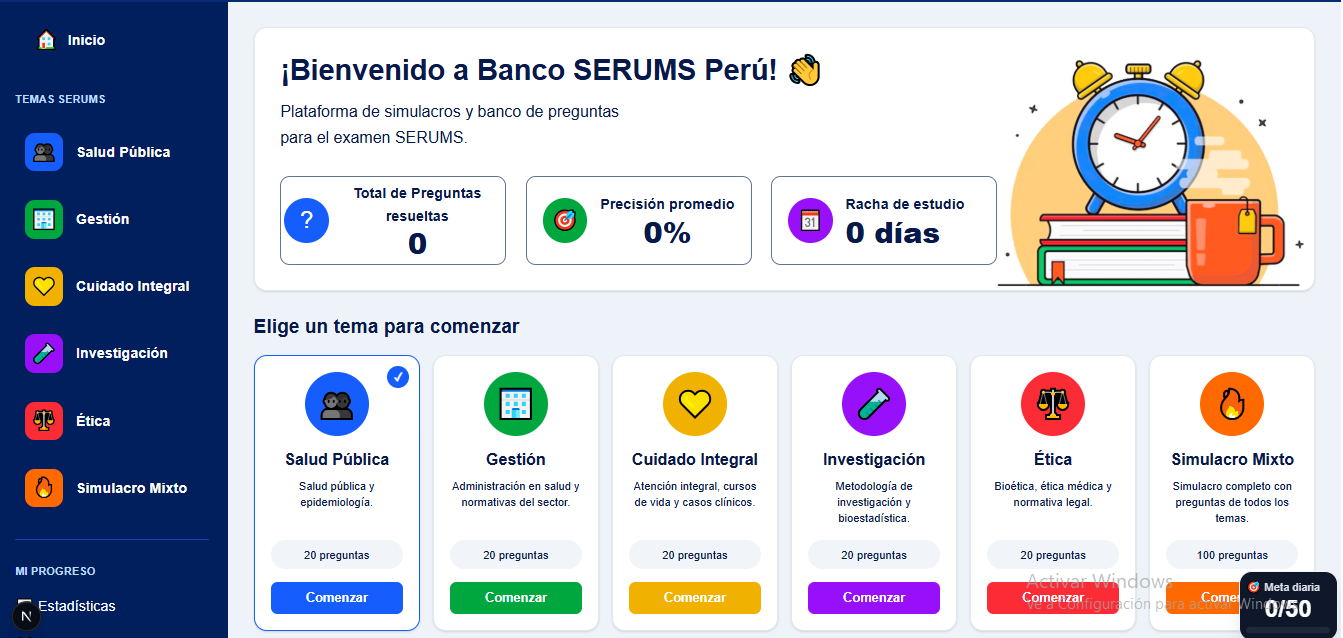
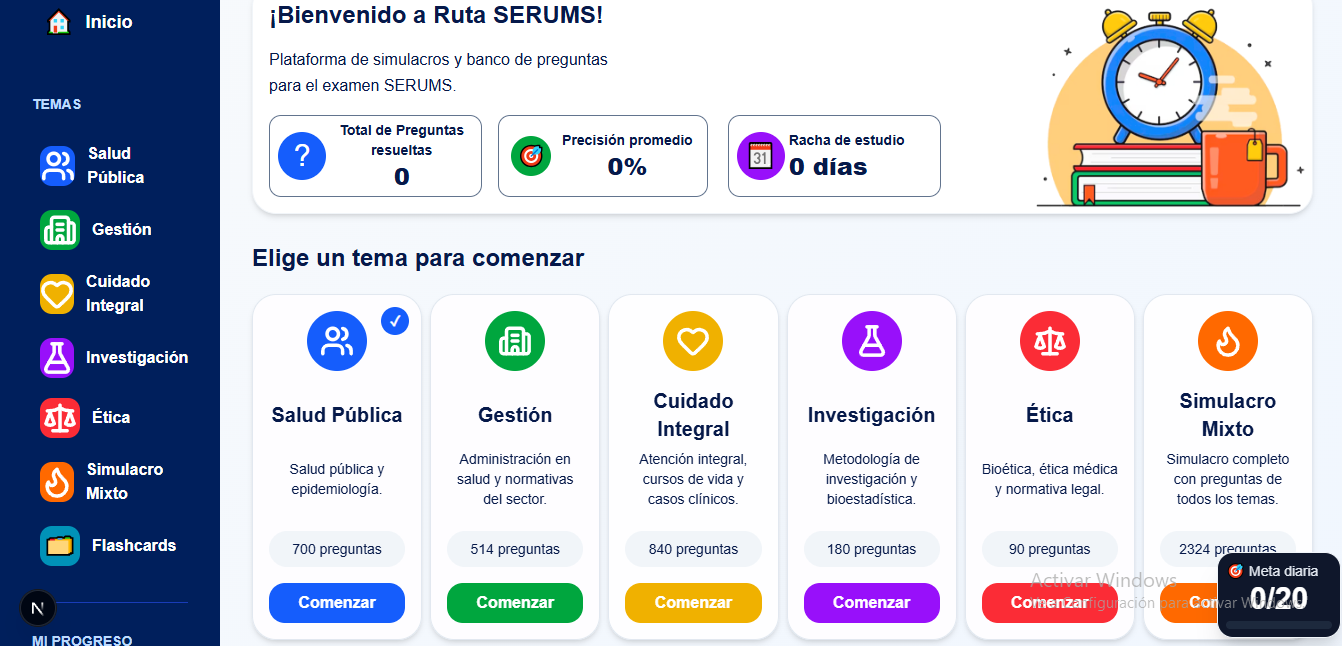
Login responsive mobile terminado

diff --git a/app/login/page.tsx b/app/login/page.tsx
@@ -10,6 +10,10 @@ export default function LoginPage() {
   const [correo, setCorreo] = useState("");
   const [password, setPassword] = useState("");
 
+  const [mostrarRegistro, setMostrarRegistro] = useState(false);
+  const [nombreRegistro, setNombreRegistro] = useState("");
+  const [correoRegistro, setCorreoRegistro] = useState("");
+  const [passwordRegistro, setPasswordRegistro] = useState("");
   const ingresar = () => {
     if (!correo || !password) {
       alert("Completa tu correo y contraseña");
@@ -28,20 +32,20 @@ export default function LoginPage() {
   };
 
   return (
-    <main className="min-h-screen bg-[#020817] text-white overflow-hidden relative">
+    <main className="min-h-screen bg-[#020817] text-white overflow-x-hidden relative px-4 py-6">
   
       {/* GLOW FONDO */}
       <div className="absolute inset-0 bg-[radial-gradient(circle_at_top_left,#0f3fff22,transparent_35%)]"></div>
   
       {/* LOGO */}
-      <div className="absolute top-10 left-12 z-20">
+      <div className="relative -left-23 md:absolute md:top-10 md:left-12 z-20 text-center md:text-left">
         <h1 className="text-xl font-extrabold">
-        Banco <span className="text-blue-500">SERUMS</span> Perú
+        Ruta <span className="text-blue-500">SERUMS</span> 
         </h1>
       </div>
   
       {/* TEXTO IZQUIERDA */}
-      <div className="absolute top-22 left-12 z-20">
+      <div className="relative md:absolute md:top-22 md:left-12 z-20 mb-6">
   
         <h2 className="text-4xl font-extrabold leading-[1.05]">
           Prepárate.
@@ -60,12 +64,34 @@ export default function LoginPage() {
           <br />
           falladas en una sola plataforma.
         </p>
+        <div className="hidden md:flex items-center gap-3 mt-2 mr-10">
+  
+
+  <div>
+    <p className="text-4xl font-extrabold text-blue-500">
+      +2300
+    </p>
+
+    <p className="text-white-400">
+      preguntas tipo SERUMS
+    </p>
+  </div>
+</div>
+<div className="md:hidden absolute top-[50px] right-2 text-right z-20">
+  <p className="text-4xl font-extrabold text-blue-500">
+    +2300
+  </p>
+
+  <p className="text-base text-slate-300">
+    preguntas
+  </p>
+</div>
   
       </div>
   
       {/* DASHBOARD */}
       <div
-  className="absolute top-10 left-[300px]"
+  className="relative md:absolute md:top-10 md:left-[300px] mt-8 md:mt-0 z-10"
   style={{
     transform: "perspective(1000px) rotateY(12deg) rotateX(3deg)",
   }}
@@ -78,14 +104,14 @@ export default function LoginPage() {
         <img
           src="/dashboard.png"
           alt="dashboard"
-          className="w-[670px] rounded-[32px] border border-blue-500/20 shadow-[0_0_35px_#2563eb44] drop-shadow-[0_0_8px_rgba(37,99,235,0.35)]transition duration-500 hover:scale-105"
+          className="w-full md:w-[670px] rounded-[24px] md:rounded-[32px] border border-blue-500/20 shadow-[0_0_35px_#2563eb44]"
         />
   
       </div>
   
       {/* ESTADISTICAS */}
       <div
-  className="absolute top-92 left-[200px]"
+  className="hidden md:block absolute top-92 left-[200px]"
   style={{
     transform: "perspective(2000px) rotateY(30deg) rotateX(4deg)",
   }}
@@ -101,7 +127,7 @@ export default function LoginPage() {
   
       {/* REFORZAMIENTO */}
       <div
-  className="absolute top-90 left-[470px]"
+  className="hidden md:block absolute top-90 left-[470px]"
   style={{
     transform: "perspective(2000px) rotateY(-20deg) rotateX(4deg)",
   }}
@@ -116,9 +142,9 @@ export default function LoginPage() {
       </div>
   
       {/* LOGIN */}
-      <div className="absolute top-8 right-10 w-[350px] rounded-[40px] border border-blue-500/40 bg-[#081120]/95 backdrop-blur-xl p-10 shadow-[0_0_80px_#2563eb44]">
+      <div className="relative md:absolute md:top-20 md:right-12 z-30 w-full max-w-[330px] mx-auto mt-8 md:-mt-15 border border-white/50 rounded-4xl p-6 backdrop-blur-sm">
   
-        <div className="w-20 h-20 rounded-full border border-blue-500/40 flex items-center justify-center text-5xl mx-auto mb-8 text-blue-500">
+        <div className="w-20 h-20 rounded-full border border-blue-500/40 flex items-center justify-center text-5xl mx-auto mb-4 text-blue-500">
           👤
         </div>
   
@@ -150,12 +176,21 @@ export default function LoginPage() {
             className="w-full h-15 rounded-2xl bg-[#111c31] border border-slate-700 px-6 text-2x1 outline-none"
           />
   
-          <button
-            onClick={ingresar}
-            className="w-full h-13 rounded-2xl bg-blue-600 hover:bg-blue-700 text-xl font-bold transition"
-          >
-            Ingresar / Registrarme
-          </button>
+  <div className="flex gap-3">
+  <button
+    onClick={() => setMostrarRegistro(true)}
+    className="flex-1 h-13 rounded-2xl bg-blue-600 hover:bg-blue-700 text-xl font-bold transition"
+  >
+    Ingresar
+  </button>
+
+  <button
+   onClick={() => setMostrarRegistro(true)}
+    className="flex-1 h-13 rounded-2xl bg-slate-700 hover:bg-slate-600 text-xl font-bold transition"
+  >
+    Registrarme
+  </button>
+</div>
   
         </div>
   
@@ -165,10 +200,10 @@ export default function LoginPage() {
 </div>
   
       {/* CARDS ABAJO */}
-<div className="absolute bottom-3 p-2 h-24 left-10 flex gap-4">
+      <div className="relative md:absolute md:bottom-3 md:left-10 mt-8 grid grid-cols-2 md:flex gap-4 pb-8">
 
 {/* CARD 1 */}
-<div className="bg-[#081120]/90 border border-slate-800 rounded-3xl px-2 py-4 w-[290px] flex items-center gap-4">
+<div className="bg-[#081120]/90 border border-slate-800 rounded-3xl px-3 py-4 w-full md:w-[290px] flex flex-col md:flex-row items-center text-center md:text-left gap-3 md:gap-4">
 
   <div className="text-2xl">
     🎓
@@ -189,7 +224,7 @@ export default function LoginPage() {
 </div>
 
 {/* CARD 2 */}
-<div className="bg-[#081120]/90 border border-slate-800 rounded-3xl px-2 py-2 w-[290px] flex items-center gap-4">
+<div className="bg-[#081120]/90 border border-slate-800 rounded-3xl px-3 py-4 w-full md:w-[290px] flex flex-col md:flex-row items-center text-center md:text-left gap-3 md:gap-4">
 
   <div className="text-2xl">
     📊
@@ -210,7 +245,7 @@ export default function LoginPage() {
 </div>
 
 {/* CARD 3 */}
-<div className="bg-[#081120]/90 border border-slate-800 rounded-3xl px-2 py-4 w-[290px] flex items-center gap-4">
+<div className="bg-[#081120]/90 border border-slate-800 rounded-3xl px-3 py-4 w-full md:w-[290px] flex flex-col md:flex-row items-center text-center md:text-left gap-3 md:gap-4">
 
   <div className="text-2xl">
     🧠
@@ -231,7 +266,7 @@ export default function LoginPage() {
 </div>
 
 {/* CARD 4 */}
-<div className="bg-[#081120]/90 border border-slate-800 rounded-3xl px-2 py-4 w-[290px] flex items-center gap-4">
+<div className="bg-[#081120]/90 border border-slate-800 rounded-3xl px-3 py-4 w-full md:w-[290px] flex flex-col md:flex-row items-center text-center md:text-left gap-3 md:gap-4">
 
   <div className="text-2xl">
     ❌
@@ -252,7 +287,66 @@ export default function LoginPage() {
 </div>
 
 </div>
-  
+{mostrarRegistro && (
+  <div className="fixed inset-0 bg-black/60 flex items-center justify-center z-50">
+    <div className="bg-[#081120] border border-blue-500/30 rounded-3xl p-8 w-full max-w-md text-white shadow-2xl">
+      <h2 className="text-3xl font-bold mb-6 text-center">
+        Crear cuenta
+      </h2>
+
+      <div className="space-y-4">
+        <input
+          type="text"
+          placeholder="Nombre completo"
+          value={nombreRegistro}
+          onChange={(e) => setNombreRegistro(e.target.value)}
+          className="w-full bg-slate-900 border border-slate-700 rounded-xl px-4 py-3 outline-none"
+        />
+
+        <input
+          type="email"
+          placeholder="Correo"
+          value={correoRegistro}
+          onChange={(e) => setCorreoRegistro(e.target.value)}
+          className="w-full bg-slate-900 border border-slate-700 rounded-xl px-4 py-3 outline-none"
+        />
+
+        <input
+          type="password"
+          placeholder="Contraseña"
+          value={passwordRegistro}
+          onChange={(e) => setPasswordRegistro(e.target.value)}
+          className="w-full bg-slate-900 border border-slate-700 rounded-xl px-4 py-3 outline-none"
+        />
+
+        <button
+          onClick={() => {
+            localStorage.setItem(
+              "usuarioActual",
+              JSON.stringify({
+                nombre: nombreRegistro,
+                correo: correoRegistro,
+                password: passwordRegistro,
+              })
+            );
+
+            setMostrarRegistro(false);
+          }}
+          className="w-full bg-blue-600 hover:bg-blue-500 py-3 rounded-xl font-bold"
+        >
+          Crear cuenta
+        </button>
+
+        <button
+          onClick={() => setMostrarRegistro(false)}
+          className="w-full bg-slate-700 hover:bg-slate-600 py-3 rounded-xl font-bold"
+        >
+          Cancelar
+        </button>
+      </div>
+    </div>
+  </div>
+)}
     </main>
   );
 }
